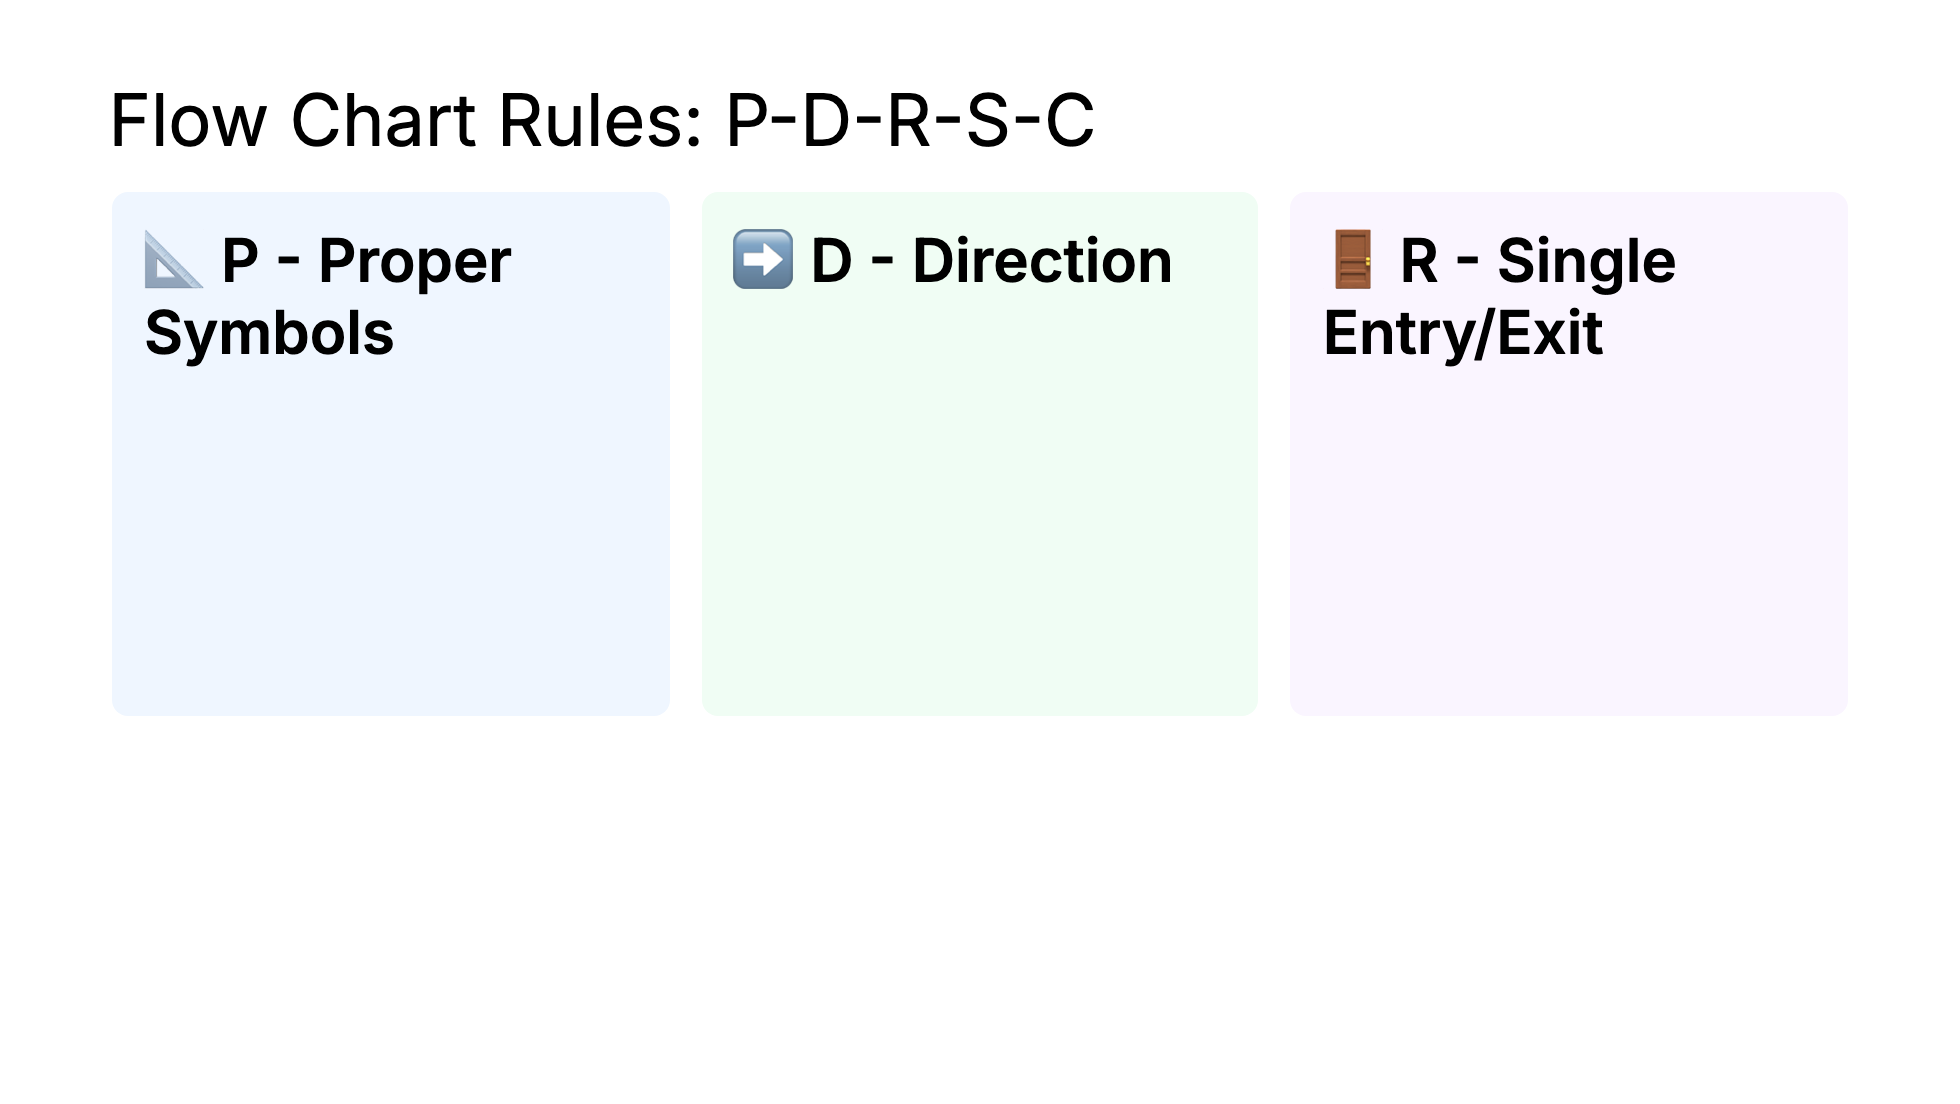
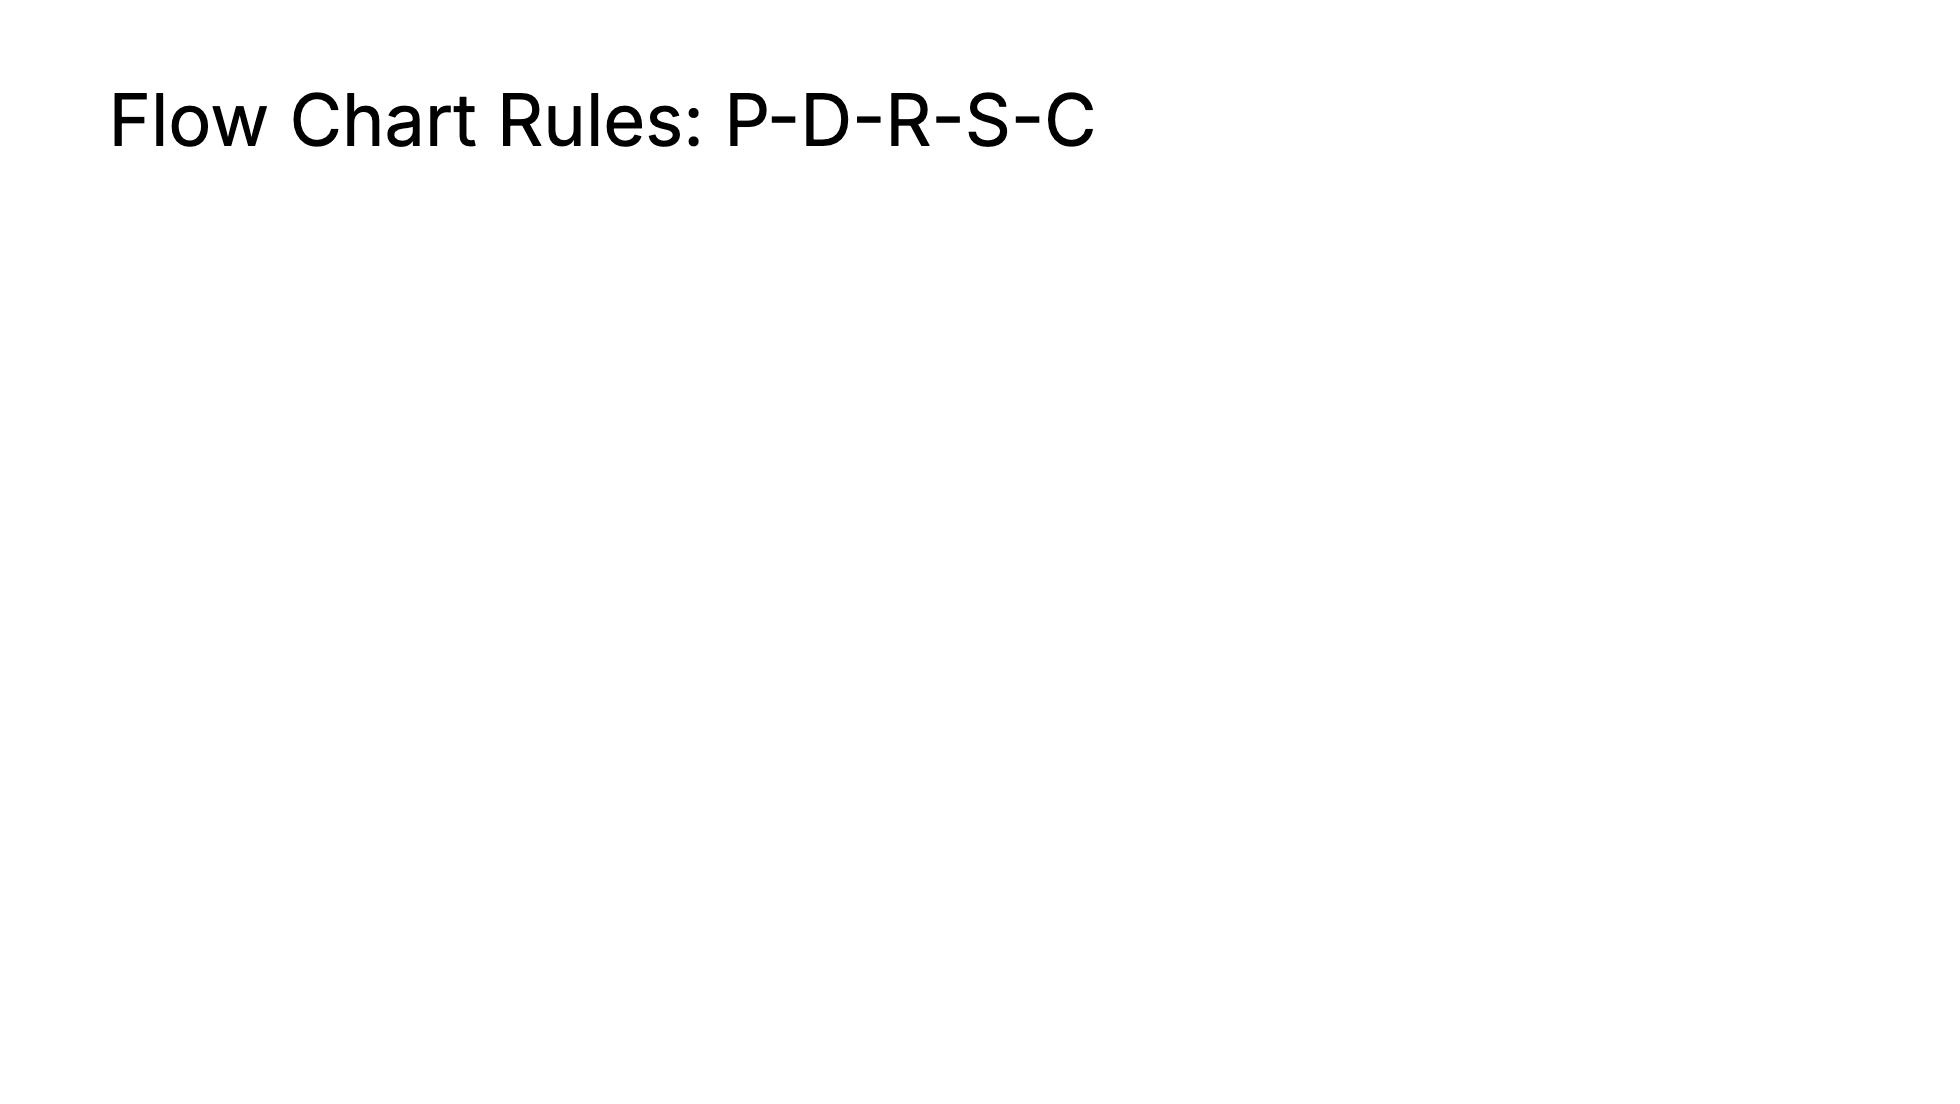
fix: correct P-D-R-S-C slide v-click behavior to show complete blocks
- Fixed v-click structure to reveal entire blocks (P, D, R) instead of just bullet points
- Moved v-click attributes from wrapping bullet points to wrapping entire div containers
- Re-exported slide PNGs with correct click animations using --with-clicks flag
- Now each click reveals one complete section: P (click 1), D (click 2), R (click 3)
- Maintains perfect alignment with [click] markers in speaker notes
- Eliminated issue where D and R bullet points were never visible in video

🤖 Generated with [Claude Code](https://claude.ai/code)

diff --git a/slidev/python-programming-fundamentals-conversational.md b/slidev/python-programming-fundamentals-conversational.md
@@ -270,47 +270,35 @@ layout: default
 
 <div class="grid grid-cols-3 gap-4">
 
-<div class="bg-blue-50 p-4 rounded-lg">
+<div v-click="1" class="bg-blue-50 p-4 rounded-lg">
 
 ## 📐 **P - Proper Symbols**
-
-<v-clicks>
 
 - **Rectangles** for actions
 - **Diamonds** for decisions  
 - **Standard shapes**
 - Everyone reads it the same way
 
-</v-clicks>
-
 </div>
 
-<div class="bg-green-50 p-4 rounded-lg">
+<div v-click="2" class="bg-green-50 p-4 rounded-lg">
 
 ## ➡ **D - Direction**
-
-<v-clicks>
 
 - **Top to bottom**
 - **Left to right**
 - Easy to follow
 - **Standard flow**
 
-</v-clicks>
-
 </div>
 
-<div class="bg-purple-50 p-4 rounded-lg">
+<div v-click="3" class="bg-purple-50 p-4 rounded-lg">
 
 ## 🚪 **R - Single Entry/Exit**
-
-<v-clicks>
 
 - **One clear start**
 - **One clear end**
 - Keeps it **organized**
-
-</v-clicks>
 
 </div>
 
